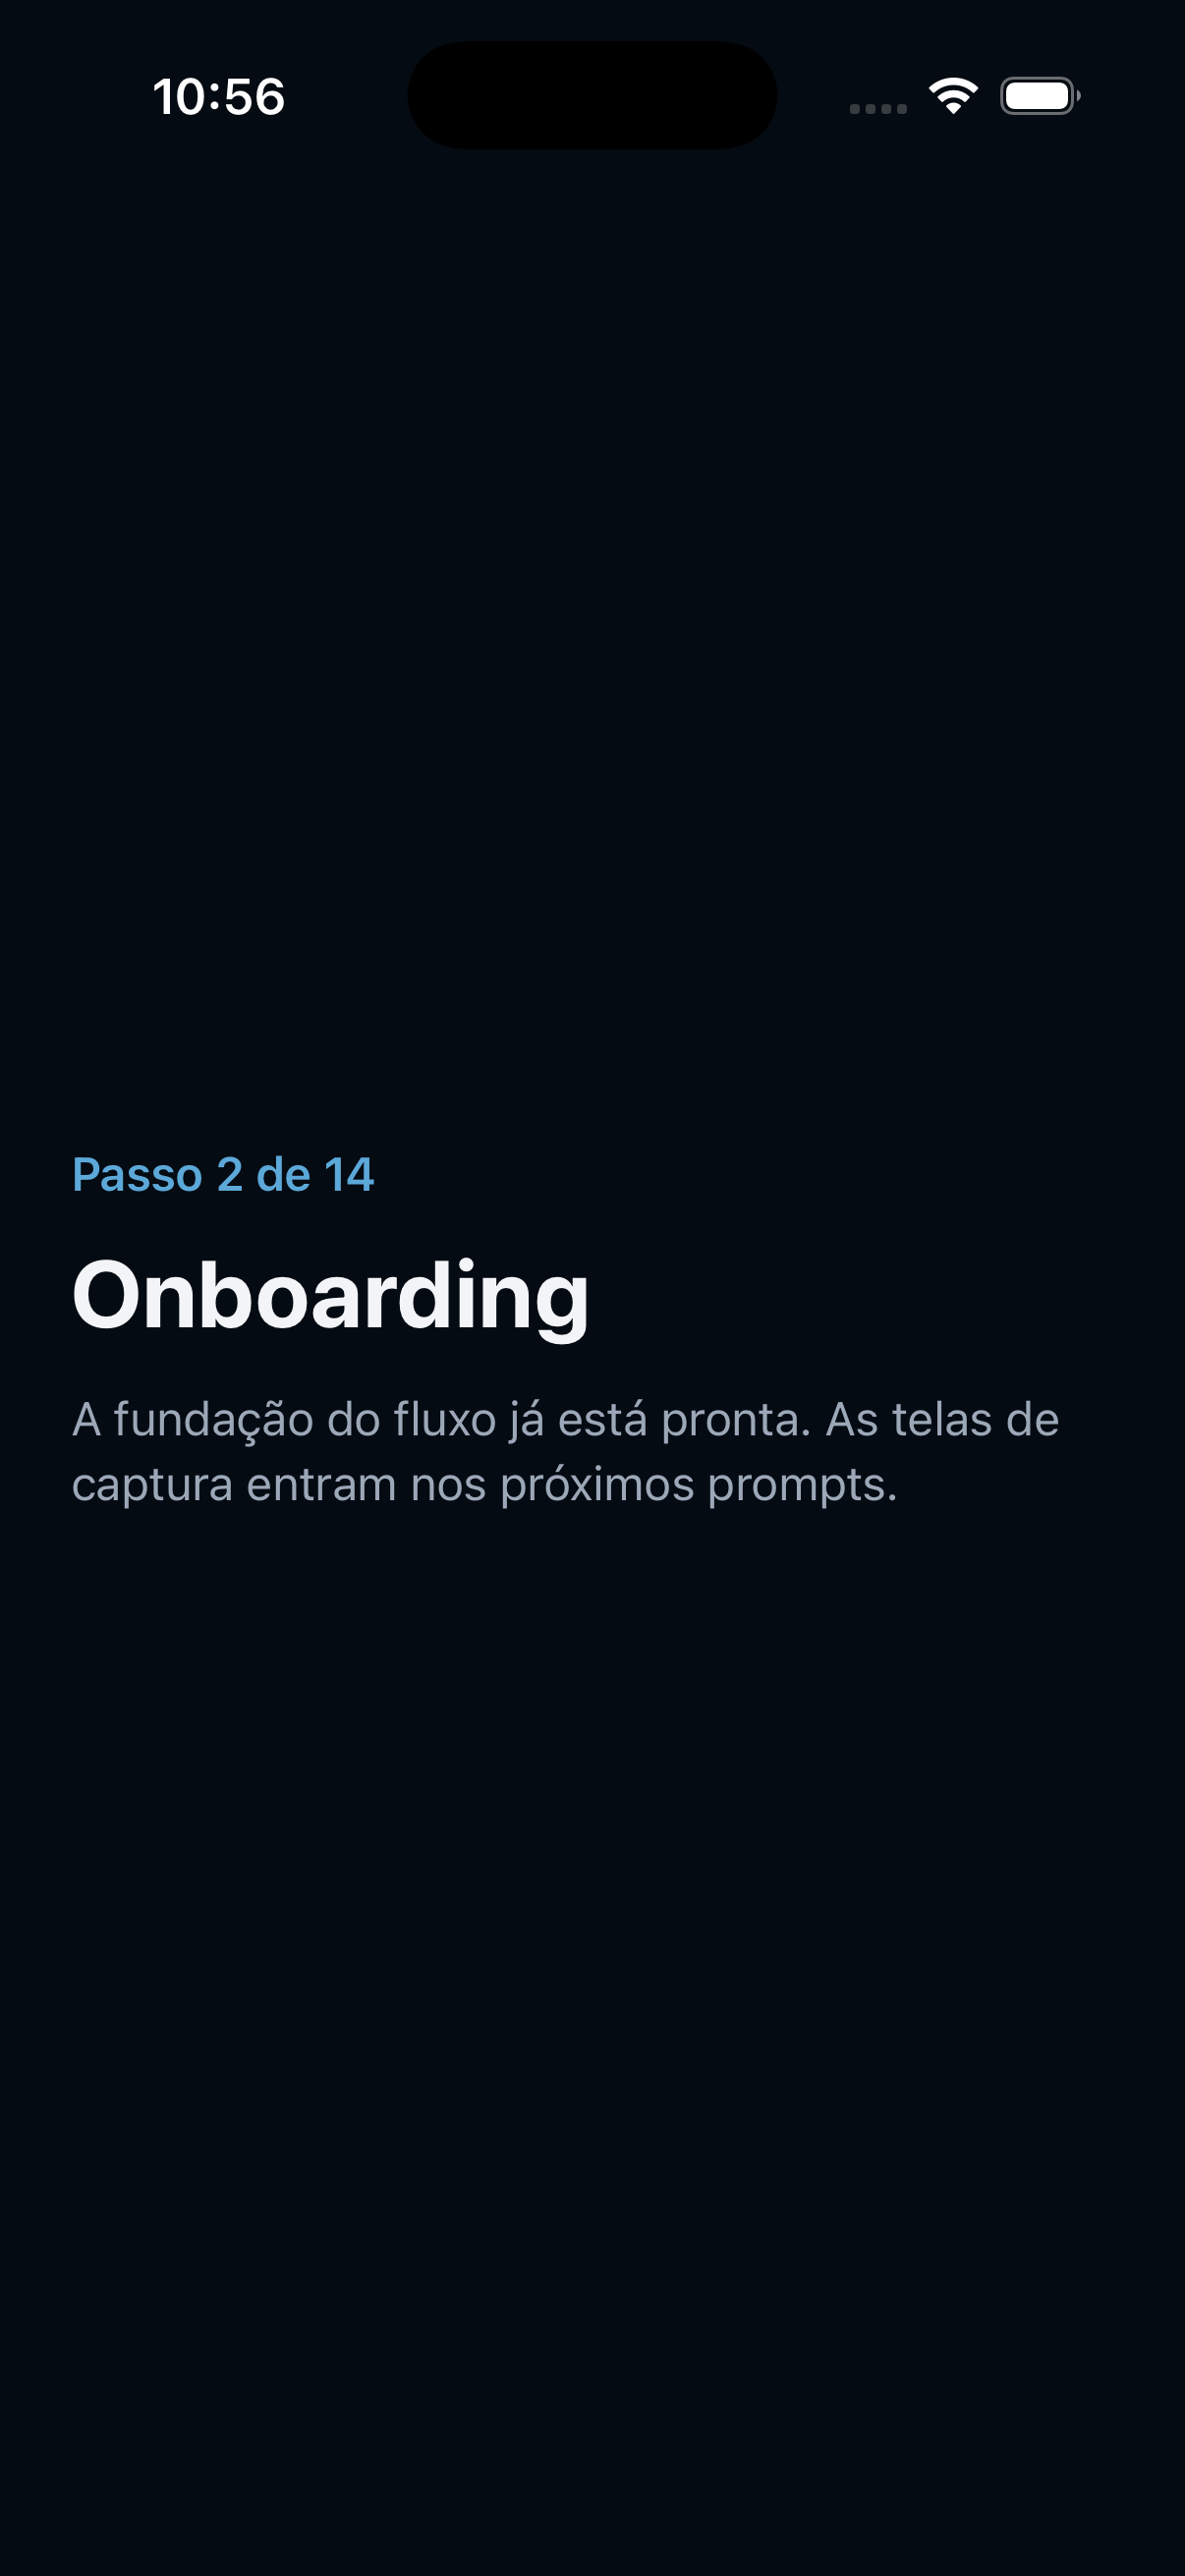
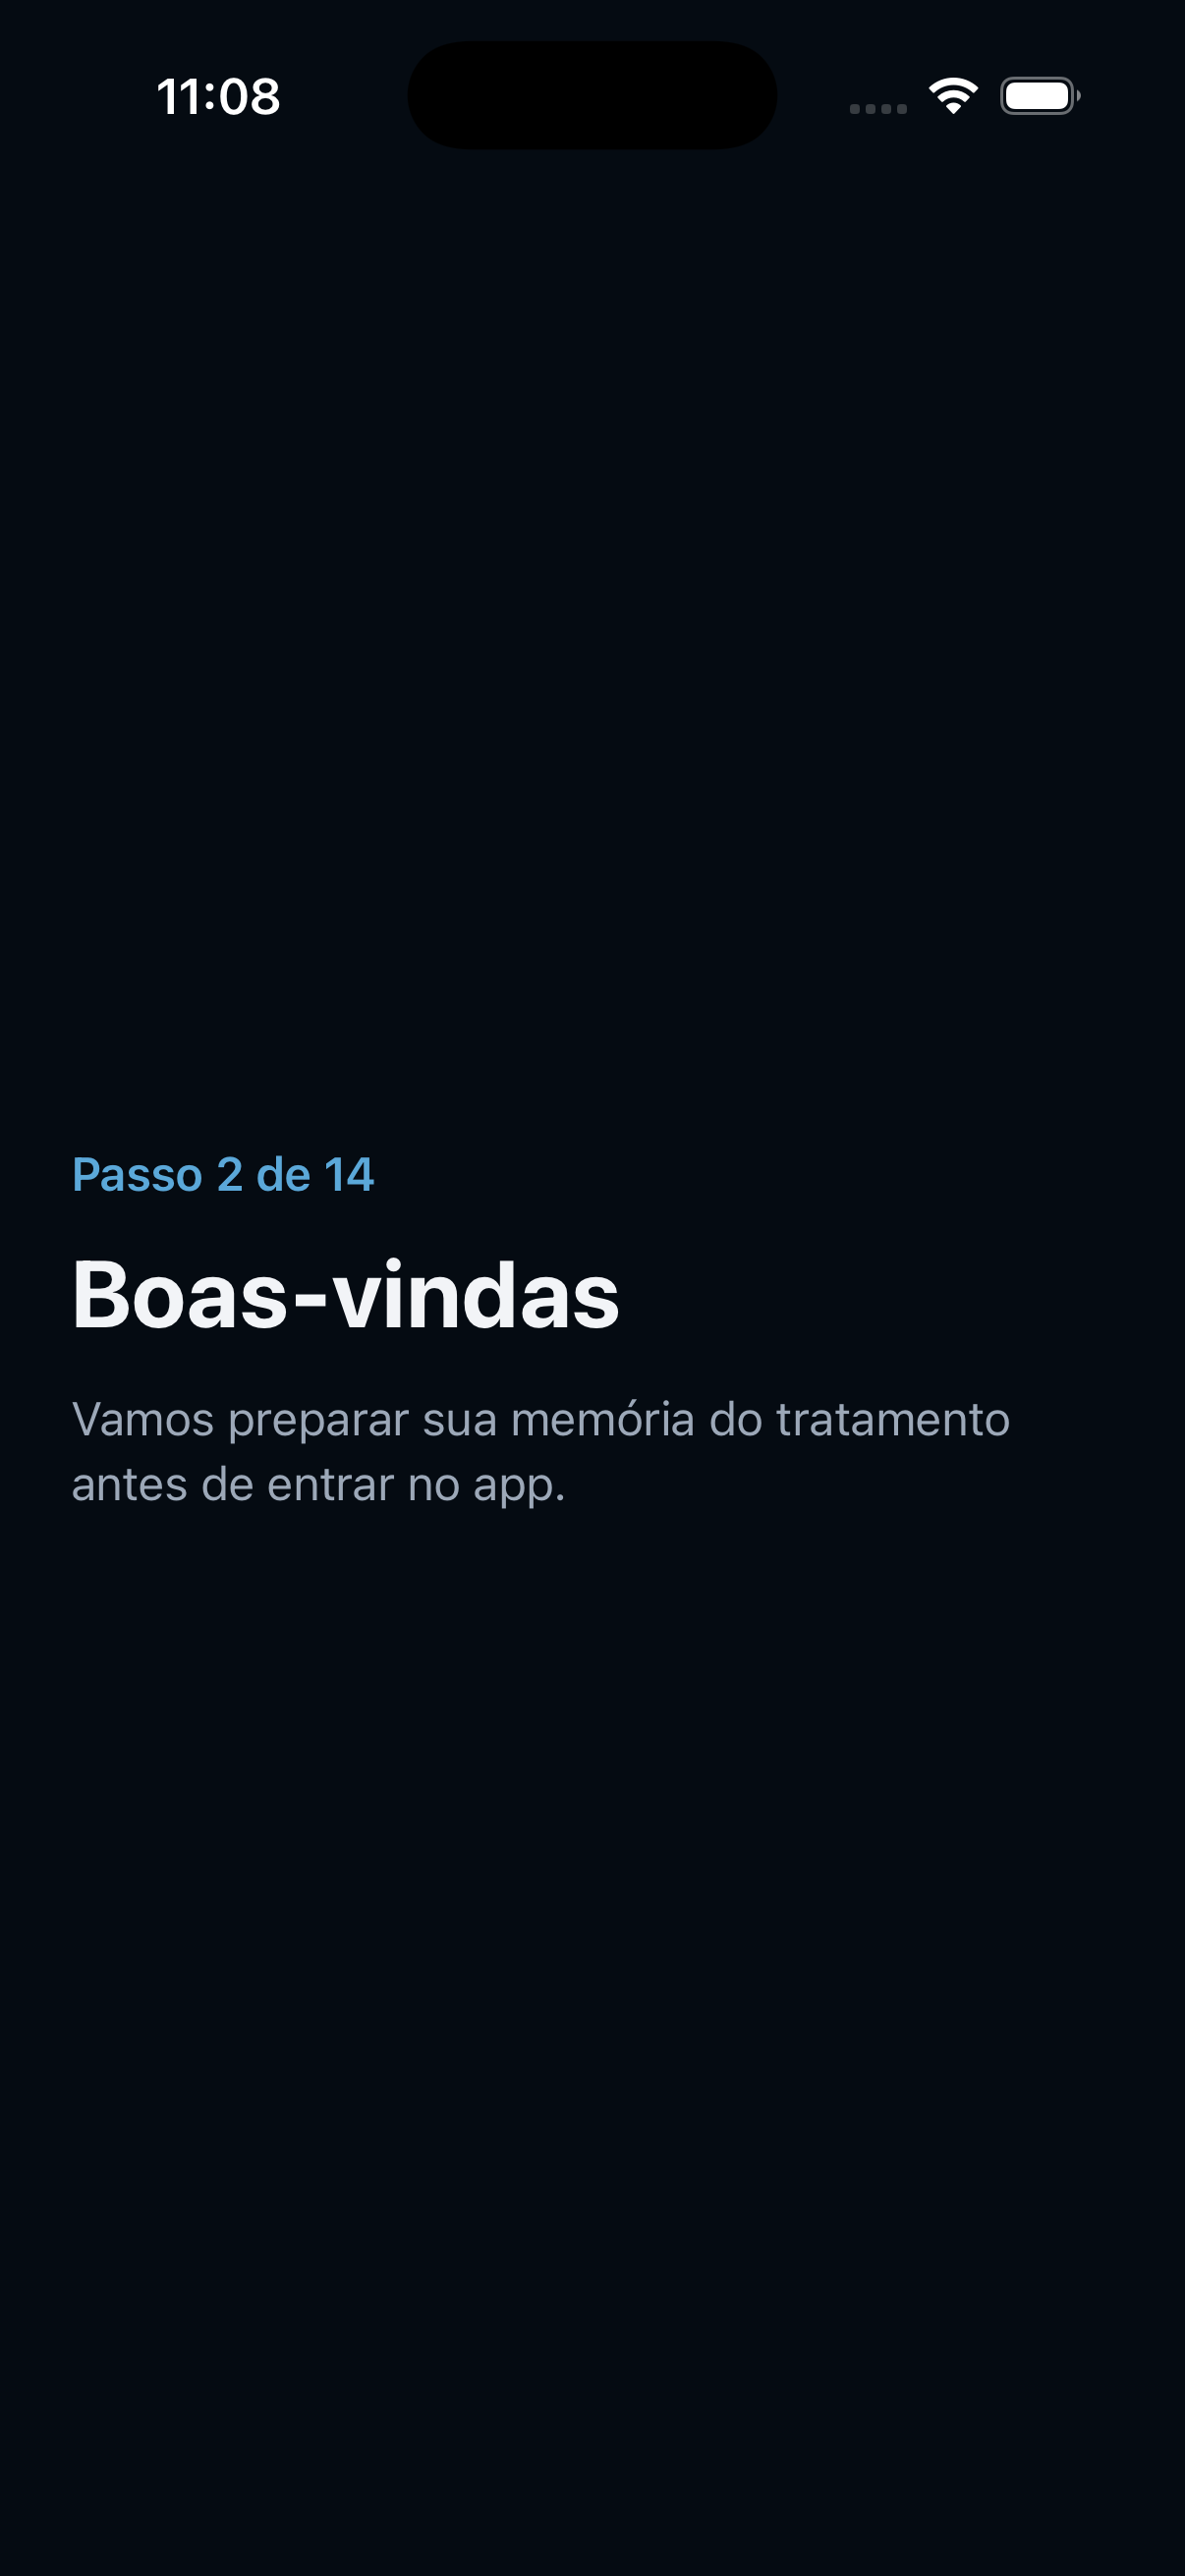
chore(onboarding): run impeccable critique

Changed region(s): [[0.0614, 0.4634, 0.8897, 0.587], [0.1227, 0.0309, 0.2454, 0.0618]]

diff --git a/contexts/OnboardingContext.tsx b/contexts/OnboardingContext.tsx
@@ -101,7 +101,12 @@ function getFirstIncompleteStep(completedSteps: Set<OnboardingStep>): Onboarding
 
 function inferCompletedSteps(data: Partial<OnboardingData>): Set<OnboardingStep> {
   const completedSteps = new Set<OnboardingStep>()
-  completedSteps.add('welcome')
+  const hasAnyProgress = Object.values(data).some((value) => {
+    if (Array.isArray(value)) return value.length > 0
+    return value !== undefined && value !== null && value !== ''
+  })
+
+  if (hasAnyProgress) completedSteps.add('welcome')
 
   if (data.full_name && data.age && data.biological_sex) {
     completedSteps.add('personal-info')

diff --git a/app/(onboarding)/index.tsx b/app/(onboarding)/index.tsx
@@ -15,9 +15,9 @@ export default function OnboardingIndexScreen() {
         <Text style={styles.kicker}>
           Passo {stepNumber} de {ONBOARDING_STEPS.length}
         </Text>
-        <Text style={styles.title}>Onboarding</Text>
+        <Text style={styles.title}>Boas-vindas</Text>
         <Text style={styles.body}>
-          A fundação do fluxo já está pronta. As telas de captura entram nos próximos prompts.
+          Vamos preparar sua memória do tratamento antes de entrar no app.
         </Text>
       </View>
     </SafeAreaView>

diff --git a/eslint.config.js b/eslint.config.js
@@ -1,7 +1,7 @@
 const expoFlat = require('eslint-config-expo/flat');
 
 module.exports = [
-  { ignores: ['node_modules/**', '.expo/**', 'ios/**', 'android/**', 'dist/**', 'build/**', 'supabase/**'] },
+  { ignores: ['node_modules/**', '.expo/**', '.agents/**', 'ios/**', 'android/**', 'dist/**', 'build/**', 'supabase/**'] },
   ...expoFlat,
   // eslint-plugin-react@7.x calls context.getFilename() (removed in ESLint v10)
   // when react.version is 'detect'. Pinning to '18.0.0' avoids the detection call.

diff --git a/.impeccable/critique/2026-05-20T14-12-04Z__ndex-tsx-components-onboarding-onboardingshell-tsx.md b/.impeccable/critique/2026-05-20T14-12-04Z__ndex-tsx-components-onboarding-onboardingshell-tsx.md
@@ -1,0 +1,88 @@
+---
+target: app/(onboarding)/index.tsx + components/onboarding/OnboardingShell.tsx
+total_score: 28
+p0_count: 0
+p1_count: 0
+timestamp: 2026-05-20T14-12-04Z
+slug: ndex-tsx-components-onboarding-onboardingshell-tsx
+---
+# Impeccable Critique — Onboarding Foundation 24a
+
+## Design Health Score
+
+| # | Heuristic | Score | Key Issue |
+|---|---|---:|---|
+| 1 | Visibility of System Status | 3 | Progress is visible, but the placeholder has no action yet. |
+| 2 | Match System / Real World | 3 | After copy adjustment, language fits DoseDay better. |
+| 3 | User Control and Freedom | 2 | Shell supports back/close, but placeholder itself has no exit/action. |
+| 4 | Consistency and Standards | 4 | Uses project tokens, native layout, no content glass. |
+| 5 | Error Prevention | 3 | Shell has disabled/loading states; real form validation lands in 24b/24c. |
+| 6 | Recognition Rather Than Recall | 3 | Progress text is clear; shell icons have labels but are visually icon-only. |
+| 7 | Flexibility and Efficiency | 2 | Onboarding is intentionally linear; no skip/accelerators yet. |
+| 8 | Aesthetic and Minimalist Design | 4 | Sparse, calm, clinical, no decorative clutter. |
+| 9 | Error Recovery | 2 | Context preserves local state and toasts persistence errors; no user-facing recovery screen yet. |
+| 10 | Help and Documentation | 2 | Placeholder copy guides enough for 24a; real step-level help still pending. |
+| **Total** | | **28/40** | **Good foundation** |
+
+## Anti-Patterns Verdict
+
+**LLM assessment:** The initial placeholder had engineering-language leakage: "Onboarding" and "próximos prompts" made the screen feel internal rather than patient-facing. This was corrected to "Boas-vindas" and a direct product-voice line: "Vamos preparar sua memória do tratamento antes de entrar no app." The visual structure is restrained and does not read like AI slop: no gradient text, no card grid, no glass content, no decorative noise.
+
+**Deterministic scan:** Attempted `node .agents/skills/impeccable/scripts/detect.mjs --json app/(onboarding) components/onboarding`. The installed skill package is missing the bundled detector implementation and returned `Error: bundled detector not found.` This is a tool packaging failure, not a UI finding.
+
+**Visual evidence:** React Native MCP screenshot and hierarchy confirmed the screen renders cleanly on iPhone 17 with four accessible text elements and no warning overlay after dismissal.
+
+## Overall Impression
+
+The 24a surface is now appropriate for a foundation PR: quiet, native, token-driven and visibly within DoseDay's clinical design language. It should not pretend to be final onboarding, but it no longer leaks implementation detail to Mariana.
+
+## What's Working
+
+- **Clinical restraint:** bg-base, semantic info accent, and typography do the work without decorative glass or cards.
+- **Foundation boundaries:** `OnboardingShell` provides progress, back/close, CTA loading/disabled states and content slots without forcing a particular step UI.
+- **Voice alignment after adjustment:** copy is short, calm and product-specific.
+
+## Priority Issues
+
+**[P2] Placeholder had internal-language leakage**
+
+Why it matters: Mariana should never see engineering language such as "próximos prompts"; it breaks trust in a clinical app.
+
+Fix: Done. Replaced with patient-facing PT-BR copy.
+
+Suggested command: `impeccable clarify`
+
+**[P2] Empty foundation screen has no primary action**
+
+Why it matters: Fine for 24a, but if this ships before 24b, a new user lands on a dead end.
+
+Fix: Keep PR ordering strict: 24b must add the welcome/first step before release or gate this branch away from production.
+
+Suggested command: `impeccable onboard`
+
+**[P3] Shell icon buttons are visually icon-only**
+
+Why it matters: Back/close are platform-familiar and accessible via labels, but PRODUCT.md prefers text before icon when possible.
+
+Fix: Keep icon-only for nav chrome if space is tight; use text+icon for unfamiliar onboarding actions in 24b/24c.
+
+Suggested command: `impeccable audit`
+
+## Persona Red Flags
+
+**Jordan (First-Timer):** The adjusted copy is clear, but until 24b lands there is no visible next action. Jordan will understand the purpose but cannot proceed.
+
+**Casey (Distracted Mobile User):** The sparse screen is easy to parse one-handed. The future CTA belongs in the bottom footer shell, which is already implemented.
+
+**Mariana (DoseDay primary):** The revised copy feels calmer and less technical. The screen should quickly move into value capture; Mariana will not tolerate a long preamble.
+
+## Minor Observations
+
+- `Passo 2 de 14` appears for the current test session because that profile already has some progress data; an entirely empty profile now remains on step 1.
+- `OnboardingShell` is ready but not exercised by the placeholder yet; final visual scoring should be repeated after 24b uses the shell with real inputs.
+
+## Questions to Consider
+
+- Should the first real screen in 24b be reassuring ("por que pedimos isso") or action-first ("vamos começar")?
+- Does every required step earn its place before the user sees app value?
+- What is the minimum data Mariana must enter before DoseDay can feel useful?

diff --git a/docs/history.md b/docs/history.md
@@ -29,6 +29,6 @@
 | 2026-05-18 | `16-MID-conectar-ia-movimento-1` | ✅ Movimento 1 conectado. `useDailyInsight` + `callMemoryDailyInsight` + `callGenerateCheckinInsight` com mood mapping. InsightCard mostra dado real (fallback server "Sua memória será atualizada em breve."). CheckinInsightView inline pós-primeiro-checkin com AI insight real (SURPASS tirzepatida 5mg semana 5). `InsightDisclaimer` badge reutilizável. Orquestração screen-based com timeout 20s + cleanup. 15 testes MCP PASS. `educational_insights trigger_source='first_checkin'` inserido e verificado. Fixtures limpos. 5 screenshots REAIS em `assets/screenshots/prompt16/`. Aprendizados 36-39 em `learnings.md`. | (PR #19 — a criar) |
 | 2026-05-19 | `19-MID-migracao-liquid-glass` (Codex) | ✅ Tab bar migrada para Liquid Glass real via `expo-glass-effect` (`GlassView`, `glassEffectStyle="regular"`, `colorScheme="dark"`) com fallback `BlurView` para iOS <26/Android. `TabBarButton.tsx` preservado. `@expo/ui` canary abandonado e Aprendizado #1 marcado como resolvido. `type-check` PASS, `lint` PASS com 1 warning preexistente, build iOS PASS, 8 testes MCP/IDB PASS, 5 screenshots REAIS em `assets/screenshots/prompt19/`. `/impeccable critique` 35/40. | (PR #22) |
 | 2026-05-19 | `17-MID-tela-relatorios-v1` (Codex) | ✅ Relatórios V1 com 4 cards reais: peso 90d, doses 8 semanas, sintomas 30d e aderência desde início. `react-native-gifted-charts` + SVG ring, cards Surface elevated sem glass, `colors.brand` restrito ao `AdherenceRingCard` quando `>=80%`. Fixtures Supabase aplicadas, screenshots reais em `assets/screenshots/prompt17/`, type-check PASS, lint PASS com 1 warning preexistente. Aprendizados 40-42 em `learnings.md`. | (PR #23) |
-| 2026-05-20 | `24a-HIGH-onboarding-foundation` (Codex) | ✅ Fundação do onboarding V5: plano persistido, RHF/resolvers instalados, tipos + schemas Zod + queries Supabase + `OnboardingContext`, route group `(onboarding)`, shell sem glass e AuthGuard 3-way usando `onboarding_completed_at`. `type-check` PASS, `lint` PASS com 1 warning preexistente em `lib/i18n/index.ts`. MCP Supabase não exposto nesta sessão; backfill não executado. | (PR a criar) |
+| 2026-05-20 | `24a-HIGH-onboarding-foundation` (Codex) | ✅ Fundação do onboarding V5: plano persistido, RHF/resolvers instalados, tipos + schemas Zod + queries Supabase + `OnboardingContext`, route group `(onboarding)`, shell sem glass e AuthGuard 3-way usando `onboarding_completed_at`. `/impeccable critique` 28/40 pós-instalação, copy placeholder ajustada. `type-check` PASS, `lint` PASS com 1 warning preexistente em `lib/i18n/index.ts`. MCP Supabase não exposto nesta sessão; backfill não executado. | PR #28 |
 
 (Atualize esta tabela ao final de cada execução bem-sucedida.)